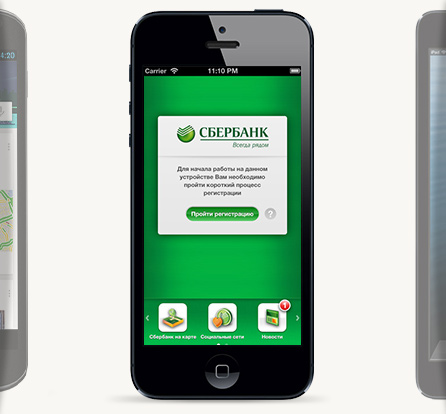
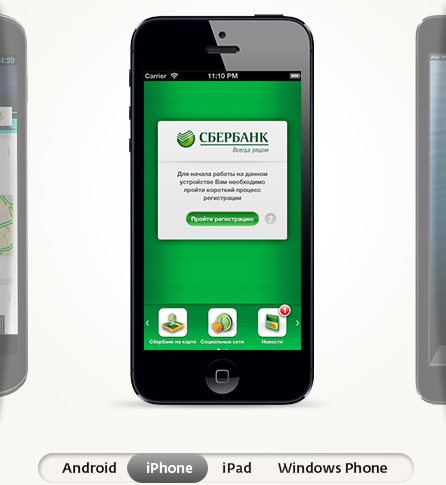
fix2.0

diff --git a/index.html b/index.html
@@ -16,7 +16,6 @@ BODY { behavior:url("js/csshover.htc");}
 
 <script type="text/javascript" src="js/jquery-1.4.2.min.js"></script>
 <script type="text/javascript" src="js/jquery.sticky.js"></script>
-<script type="text/javascript" src="js/jquery.anythingslider.min.js"></script>
 <script type="text/javascript" src="js/my_script.js"></script>
 
 </head>
@@ -97,9 +96,9 @@ BODY { behavior:url("js/csshover.htc");}
 			</div>
 			
 			<ul>
-				<li class="first"><span>&nbsp;</span><a href="#">Доступно</a><p>Постоянный доступ к Сбербанку со смартфона <br />или планшета.</p></li>
-				<li class="second"><span>&nbsp;</span><a href="#">Быстро</a><p>Переводите деньги или оплачивайте счета <br />всего за несколько касаний.</p></li>
-				<li class="third"><span>&nbsp;</span><a href="#">Полезно</a><p>Находите ближайшие к вам банкоматы, <br />терминалы и банковские отделения.</p></li>
+				<li class="first"><span>&nbsp;</span><a class="msber02" href="#">Доступно</a><p>Постоянный доступ к Сбербанку со смартфона <br />или планшета.</p></li>
+				<li class="second"><span>&nbsp;</span><a class="msber02" href="#">Быстро</a><p>Переводите деньги или оплачивайте счета <br />всего за несколько касаний.</p></li>
+				<li class="third"><span>&nbsp;</span><a class="msber02" href="#">Полезно</a><p>Находите ближайшие к вам банкоматы, <br />терминалы и банковские отделения.</p></li>
 			</ul>
 			
 			<div class="btn-box">
@@ -111,12 +110,10 @@ BODY { behavior:url("js/csshover.htc");}
 		</div>
 		<div class="msber-box02-right">
 			
-			<ul id="slider1">
-				<li class="panel1"><img src="images/sber_img001.jpg" width="446" height="414" alt="#" /></li>
-				<li class="panel2"><img src="images/sber_img002.jpg" width="446" height="414" alt="#" /></li>
-				<li class="panel3"><img src="images/sber_img003.jpg" width="446" height="414" alt="#" /></li>
-				<li class="panel4"><img src="images/sber_img004.jpg" width="446" height="414" alt="#" /></li>
-			</ul>	
+			<div class="msber-box02-img"><img src="images/sber_img001.jpg" alt="#" /></div>
+			<div class="msber-box02-img"><img src="images/sber_img002.jpg" alt="#" /></div>
+			<div class="msber-box02-img"><img src="images/sber_img003.jpg" alt="#" /></div>
+			
 			
 		</div>
 	<div class="clear">&nbsp;</div>

diff --git a/css/styles.css b/css/styles.css
@@ -130,33 +130,6 @@ html, body, p, h1, h2, h3, a, img, form, table, tr, td {
 .msber-box04 ul li.second span{background-position: 0 -23px}
 .msber-box04 ul li.third span{background-position: 0 -46px}
 
-/* Slider */
-div.anythingSlider {width: 446px;height: 415px;margin:0 0 0 auto;}
-div.anythingSlider .anythingWindow {overflow: hidden;	position: relative;	width: 100%;	height: 100%;}
-div.anythingSlider {position: relative;padding:0;}
-ul.anythingBase {background: transparent;	list-style: none;	position: absolute;	top: 0;	left: 0;	margin: 0;	padding: 0;}
-ul.anythingBase li.panel {	background: transparent;	display: block;	float: left;	padding: 0;	margin: 0;}
-div.anythingSlider .arrow {top: 50%;position: absolute;display: block;}
-div.anythingSlider .anythingControls {outline: 0;background:url(../images/tabs_bg.png) no-repeat;width:376px;height:30px;margin:20px auto 0 auto;
-	border-radius: 14px;
-	-moz-border-radius:  14px;
-	-webkit-border-radius:  14px;
-	behavior: url(js/pie.htc);position:relative
-}
-div.anythingSlider .anythingControls .start-stop{display:none}
-div.anythingSlider .thumbNav { margin: 0;padding:0}
-div.anythingSlider .thumbNav li { display: inline;padding:0}
-div.anythingSlider .thumbNav a {font-size:14px;display: inline-block;text-decoration: none;height:30px;text-align: center;outline: 0;line-height:30px;padding:0 15px;
-	border-radius: 14px;
-	-moz-border-radius:  14px;
-	-webkit-border-radius:  14px;
-	behavior: url(js/pie.htc);position:relative
-}
-div.anythingSlider .thumbNav a.cur{background:url(../images/tabs_act.png) repeat-x;color:#fff}
-div.anythingSlider .thumbNav a.cur{background:url(../images/tabs_act.png) repeat-x;color:#fff}
-div.anythingSlider .thumbNav .first a{padding:0 19px 0 20px}
-
-
 
 
 .clear{clear:both}

diff --git a/js/my_script.js b/js/my_script.js
@@ -21,6 +21,16 @@
 			})
 		});
 		
+		//
+		$('div.msber-box02-img').eq(0).show();
+		$('a.msber02').each(function(i, item){
+			$(item).bind('mouseover', function(e){
+			 e.preventDefault();
+			 $('div.msber-box02-img').hide();
+			 $('div.msber-box02-img').eq(i).show();
+			})
+		});
+		
 				
 		//
 		$("a.ancLinks").click(function () {
